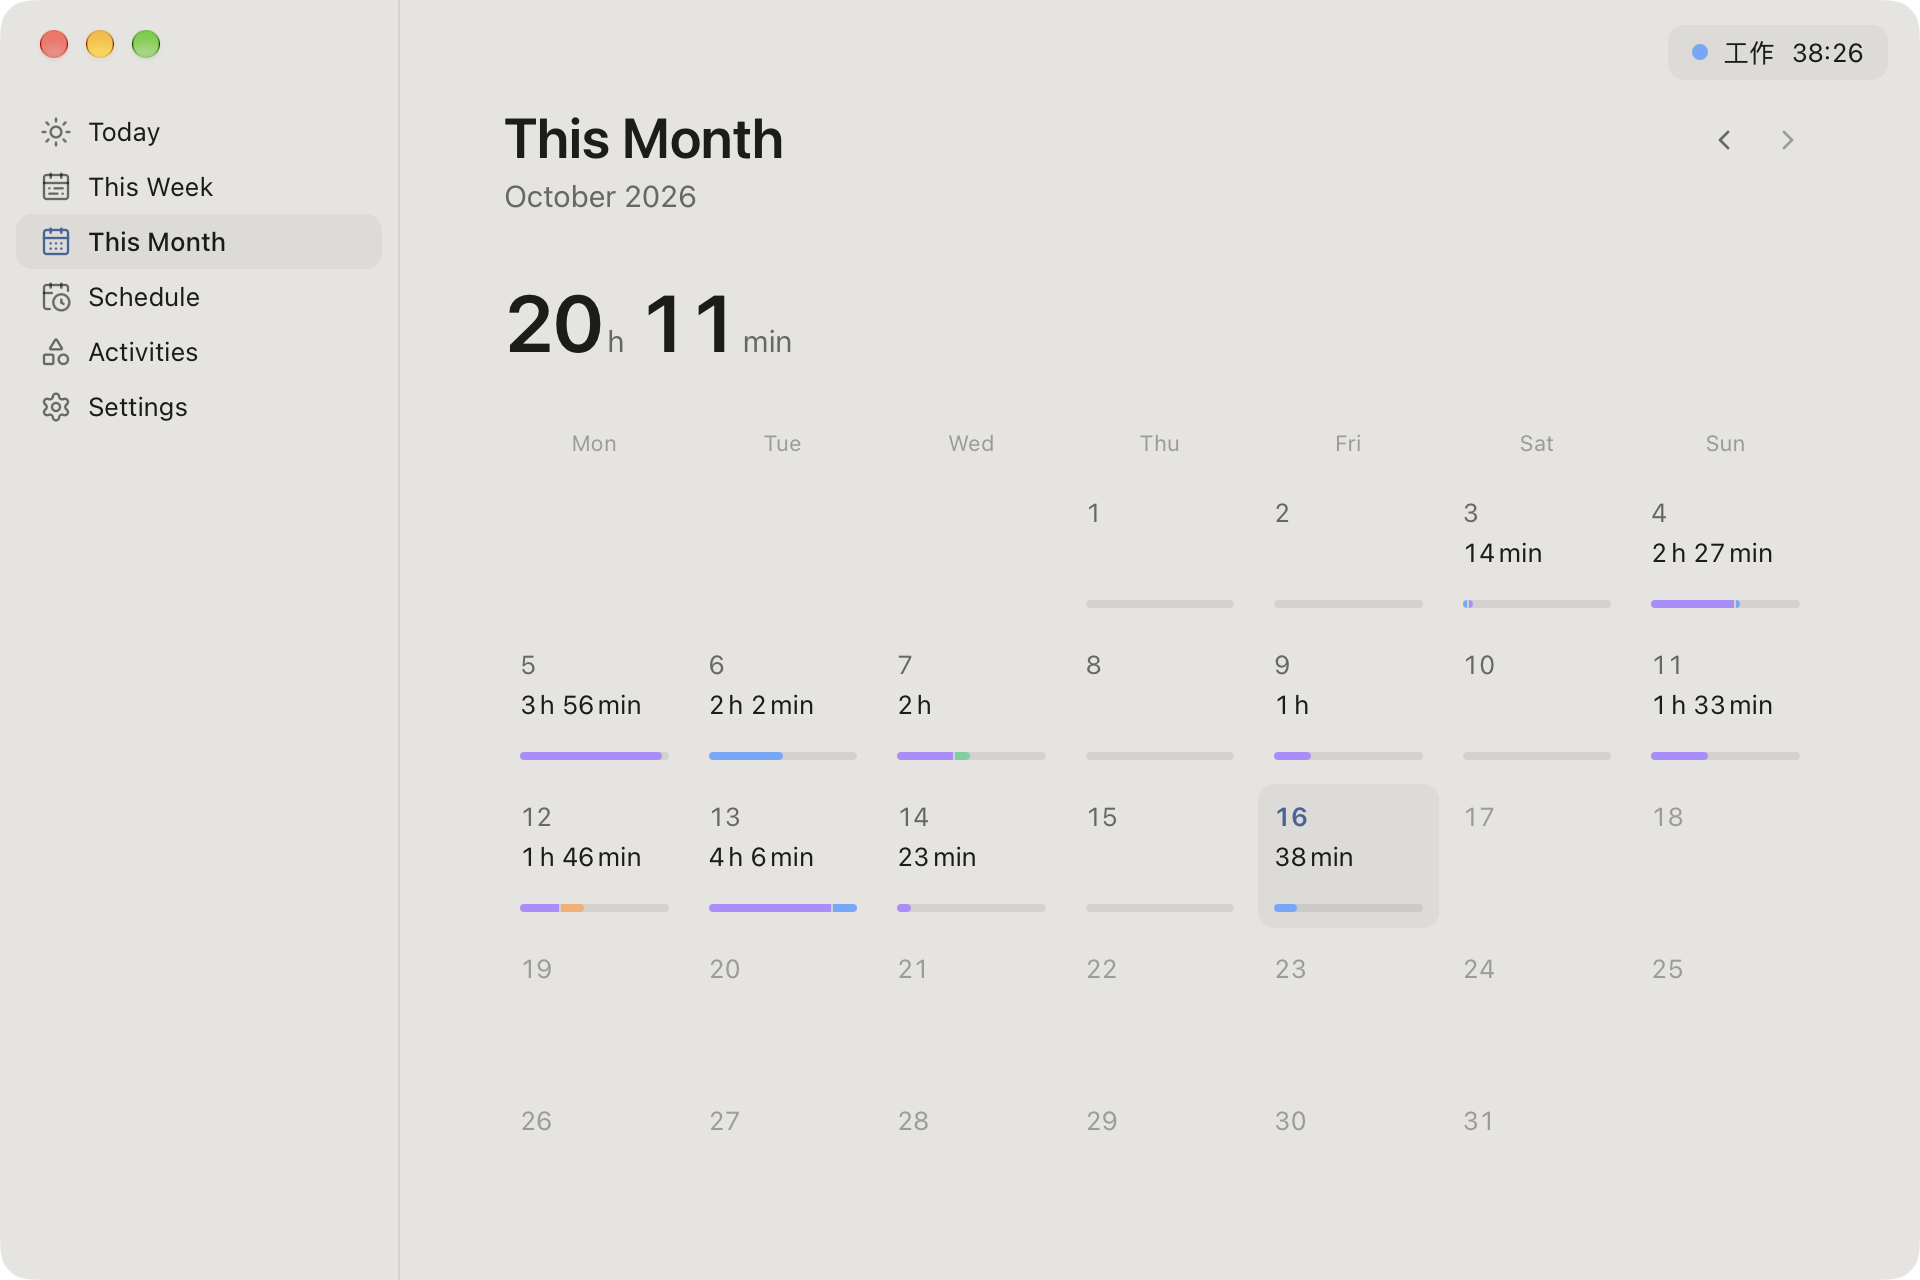
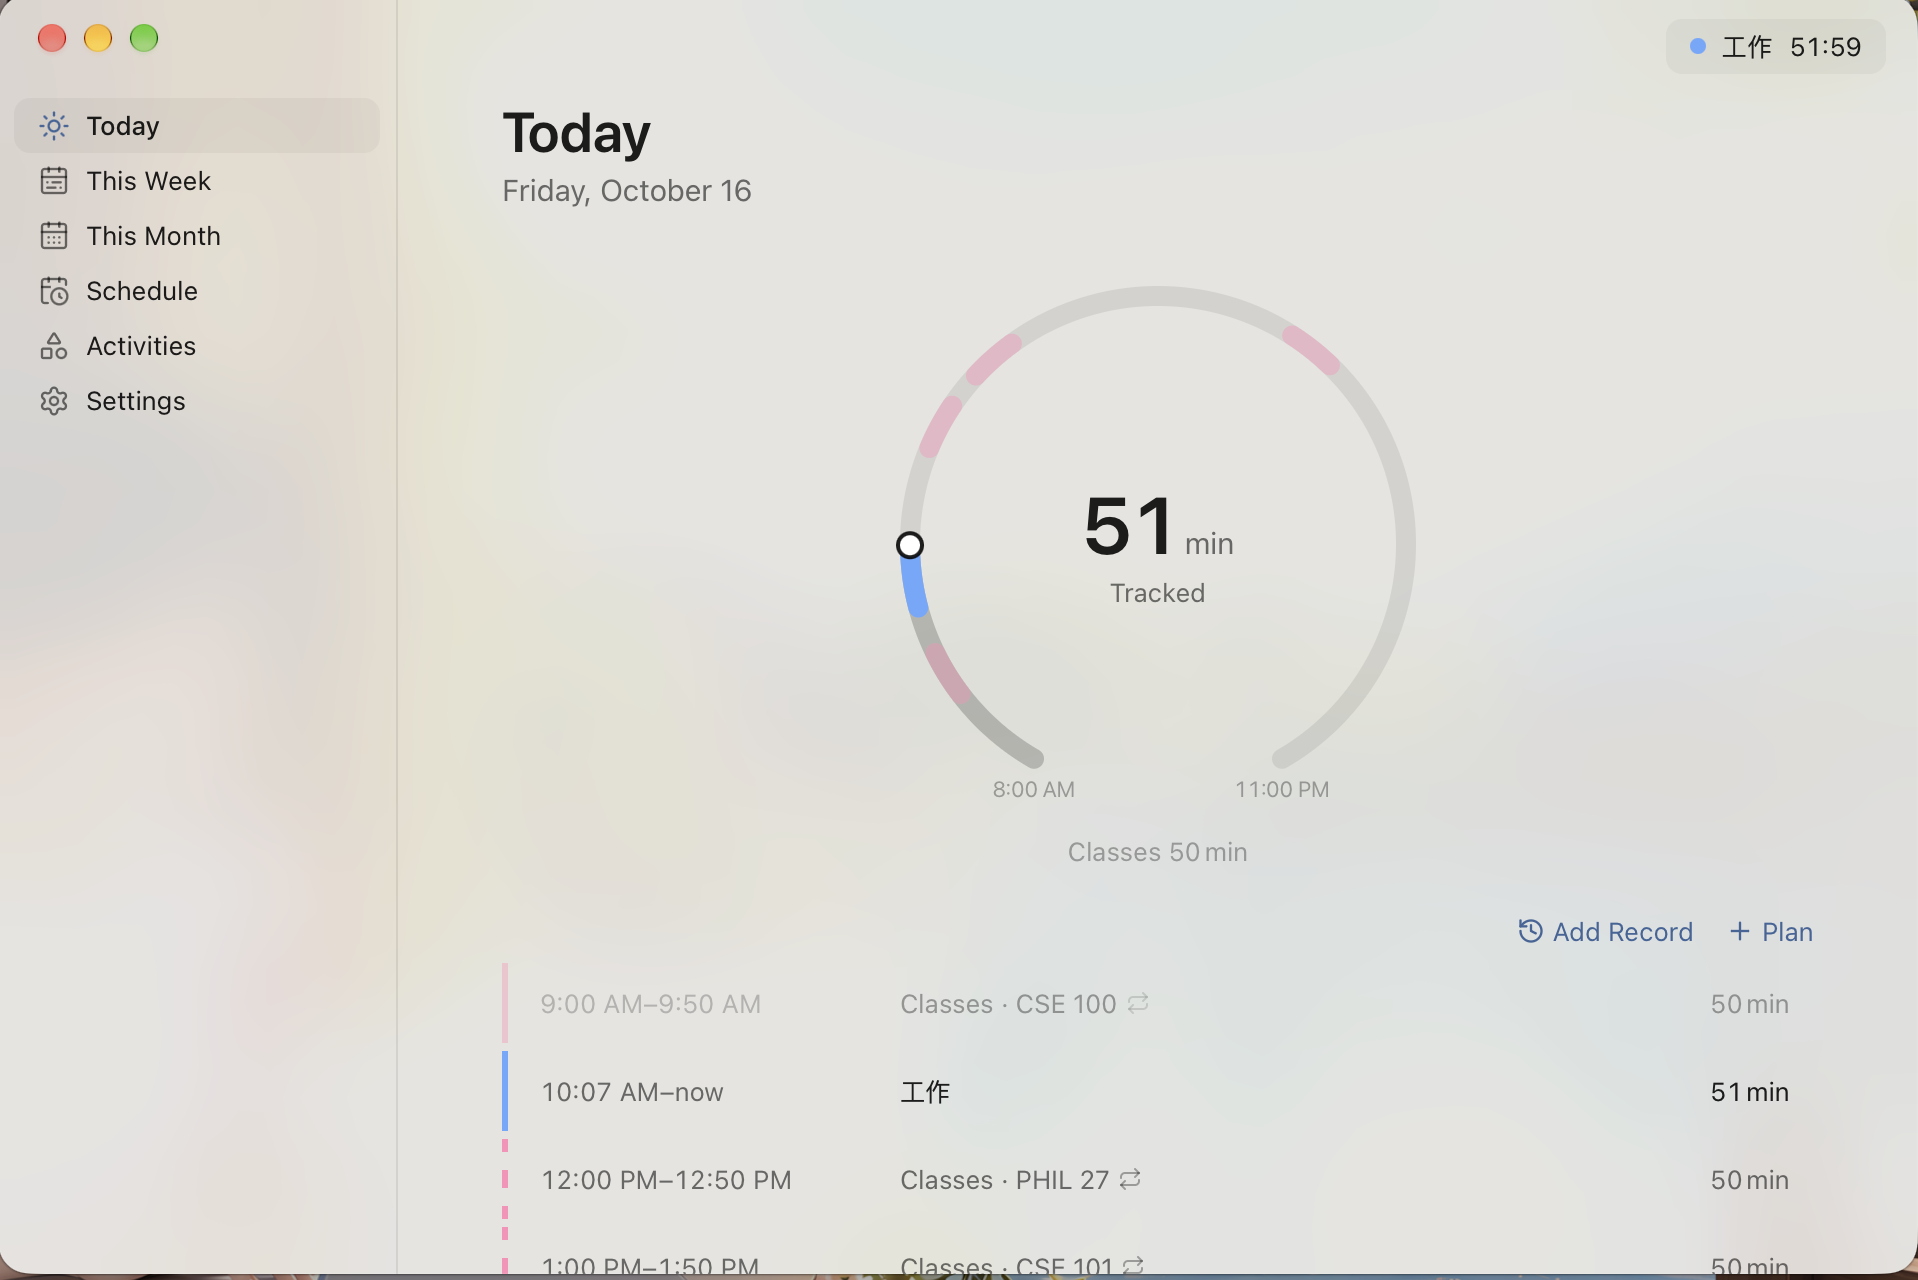
README: the Today screenshot was the month; add week and month with classes counted

diff --git a/README.md b/README.md
@@ -50,6 +50,13 @@ Hope tracks the time you choose to spend on things, one timer at a time, and sho
   <img src="docs/screenshots/desktop-schedule.png" alt="Schedule" width="85%" />
 </p>
 
+If you would rather see class time too, switch on **Count classes in totals** in Settings: the week and the month then include it, in the timetable group's own colour, with each course listed under the group.
+
+<p align="center">
+  <img src="docs/screenshots/desktop-week-classes.png" alt="This week with classes counted" width="48%" />
+  <img src="docs/screenshots/desktop-month-classes.png" alt="This month with classes counted" width="48%" />
+</p>
+
 ### Activities, journal, cards
 
 - **Activities** with one level of sub-activities, eight colours, drag to reorder, archive what you no longer do.
